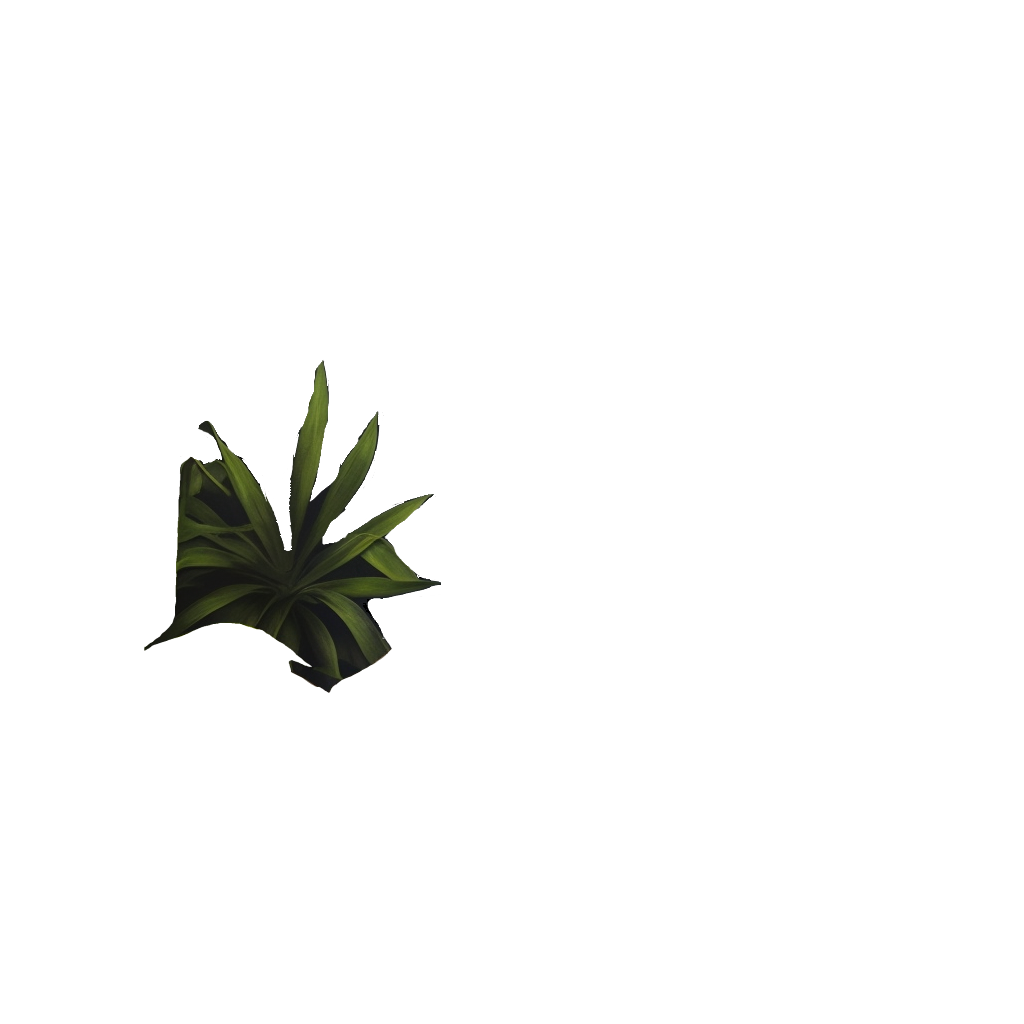
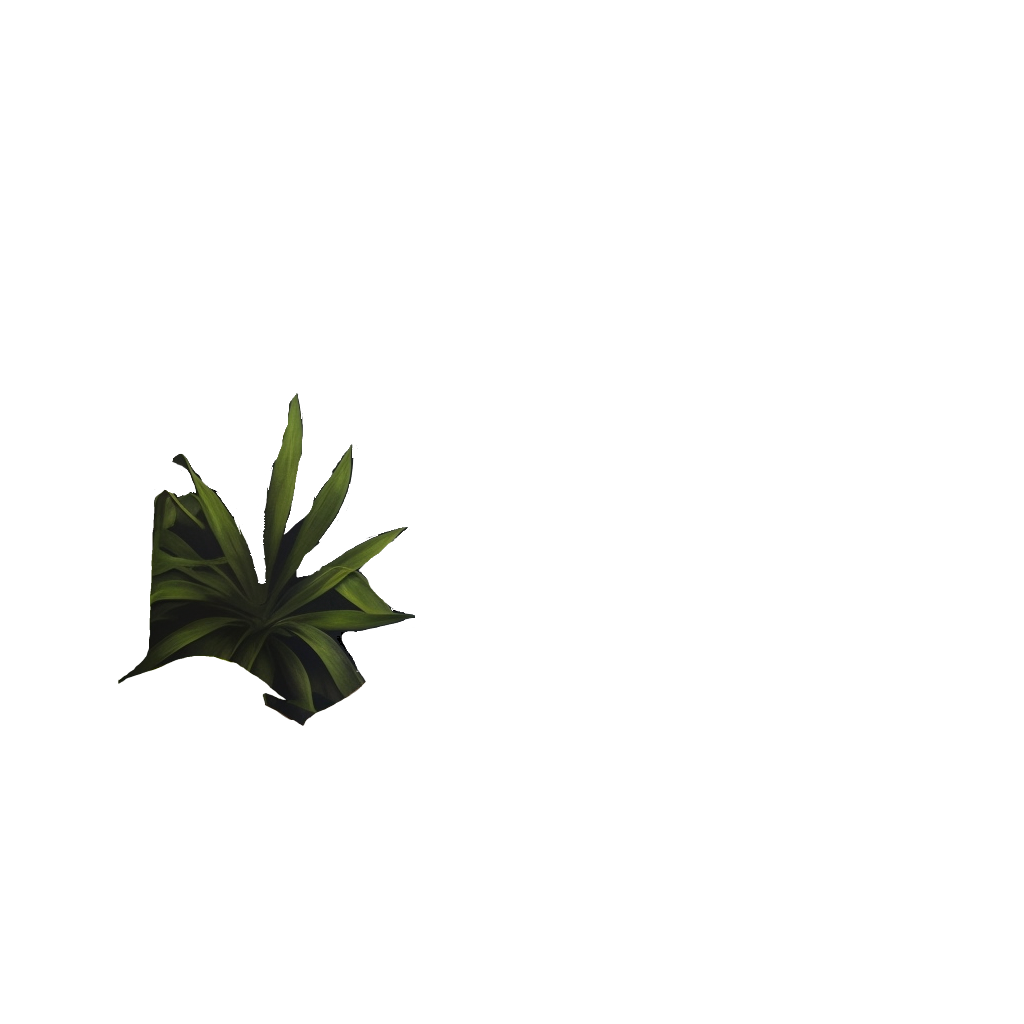
fixes

Changed region(s): [[0.125, 0.3438, 0.4375, 0.7188]]

diff --git a/src/App.tsx b/src/App.tsx
@@ -95,7 +95,7 @@ function App() {
         </div>
         <div
           className="image bottom plant-container"
-          style={{ bottom: -18, zIndex: 0, overflow: 'hidden' }}
+          style={{ zIndex: 0, overflow: 'hidden' }}
         >
           <img src={layer6} className="plant" />
         </div>

diff --git a/src/App.css b/src/App.css
@@ -39,7 +39,8 @@
   backdrop-filter: blur(5px);
   left: 50%;
   transform: translateX(-50%);
-  top: 15%;
+  top: 20%;
+  min-width: 26vh;
 }
 
 .name {
